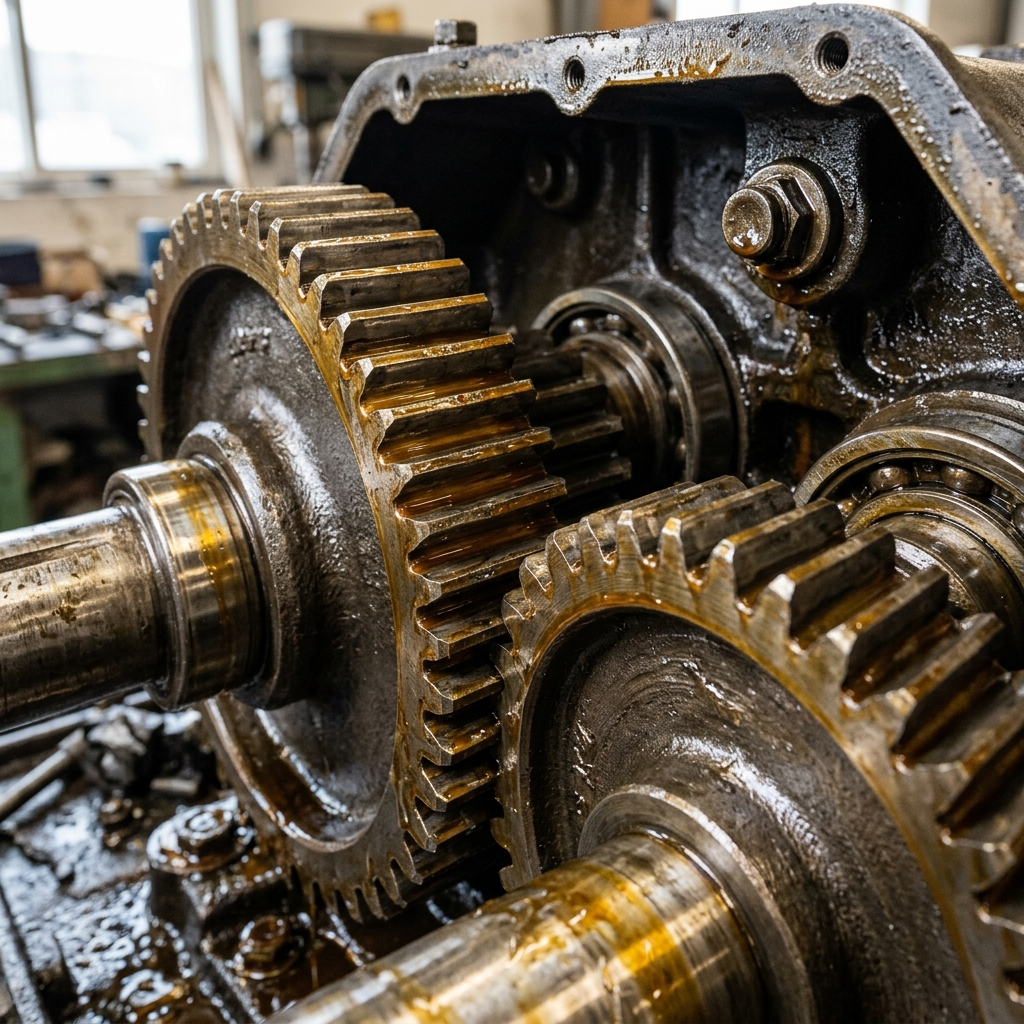
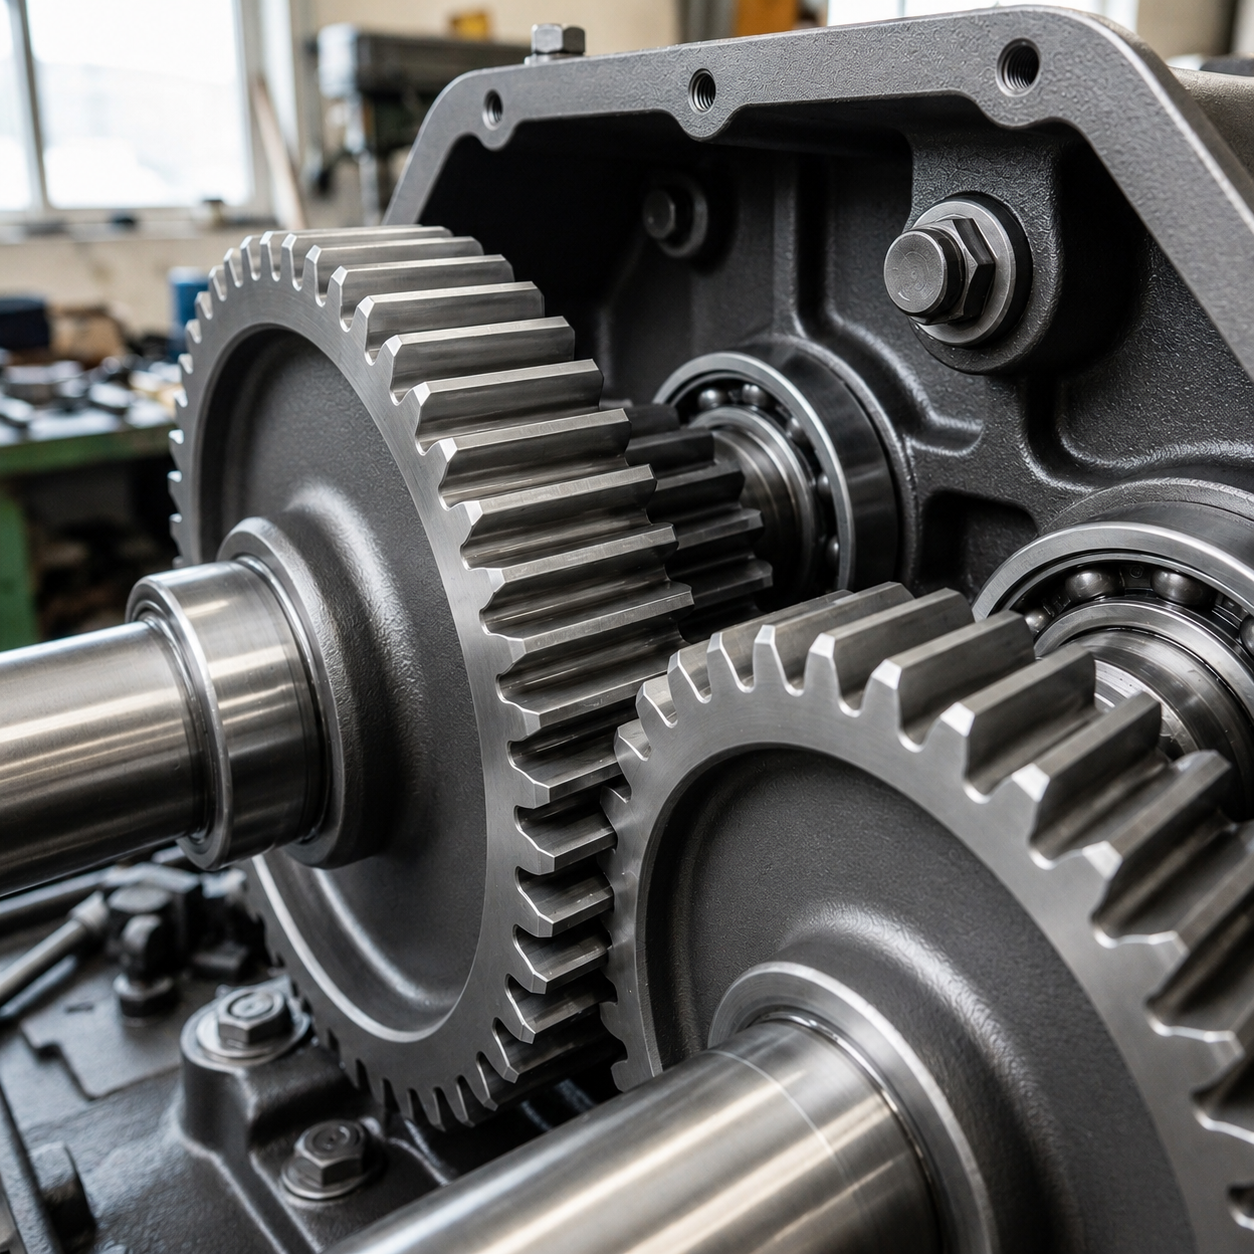
Update product images and hide floating overlay on 4th pillar picture

diff --git a/src/routes/index.tsx b/src/routes/index.tsx
@@ -784,14 +784,16 @@ function WhyChoose() {
               <div className="absolute inset-0 bg-gradient-to-t from-graphite/40 to-transparent z-10" />
 
               {/* Floating info overlay */}
-              <div className="absolute bottom-6 left-6 right-6 rounded-2xl bg-graphite/85 px-6 py-4 text-white backdrop-blur-md border border-white/10 z-20 shadow-xl">
-                <div className="text-[10px] font-mono uppercase tracking-widest text-silver/60">
-                  Core Pillar 0{activeIdx + 1}
+              {activeIdx !== 3 && (
+                <div className="absolute bottom-6 left-6 right-6 rounded-2xl bg-graphite/85 px-6 py-4 text-white backdrop-blur-md border border-white/10 z-20 shadow-xl">
+                  <div className="text-[10px] font-mono uppercase tracking-widest text-silver/60">
+                    Core Pillar 0{activeIdx + 1}
+                  </div>
+                  <div className="mt-1 font-display font-bold text-base">
+                    {pillars[activeIdx].title}
+                  </div>
                 </div>
-                <div className="mt-1 font-display font-bold text-base">
-                  {pillars[activeIdx].title}
-                </div>
-              </div>
+              )}
             </div>
           </Reveal>
 